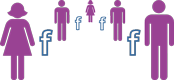
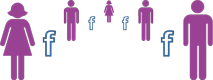
styling guest page

Changed region(s): [[0.0, 0.0, 1.0, 1.0], [0.8621, 0.0, 0.977, 0.175], [0.9483, 0.175, 1.0, 0.225]]

diff --git a/crush/static/fbdater_guest_v1.css b/crush/static/fbdater_guest_v1.css
@@ -560,14 +560,14 @@ div#who_it_works_on_section .icon{
 	margin-left:392px;
 }
 div#who_it_works_on_section .icon1{
-	margin-left:403px;
+	margin-left:402px;
 }
 div#who_it_works_on_section .icon2{
-	margin-left:390px;
+	margin-left:383px;
 }
 
 div#who_it_works_on_section .icon3{
-	margin-left:367px;
+	margin-left:353px;
 }
 
 div#who_it_works_on_section .info_section_subtitle {
@@ -578,18 +578,17 @@ div#who_it_works_on_section .info_section_subtitle {
 	border-radius:15px 15px 2px 2px;
 	padding:1px 25px 0px 15px;
 	text-align:center;
-	width:504px!important;
-	margin-left:225px!important;
+	width:495px!important;
+	margin-left:220px!important;
 	margin-top:15px;
 }
 
 div#who_it_works_on_section .info_section_title {
 	color:#3b5998;
 	font-size:39px;
-		margin-top:-15px;
-		margin-bottom:45px;
-		
-	margin-left:-74px;
+	margin-top:-15px;
+	margin-bottom:45px;	
+	margin-left:-70px;
 	text-align:center;
 	font-size:39px;
 	margin-top:-15px;
@@ -600,8 +599,8 @@ div#who_it_works_on_section .info_section_text{
 	margin-bottom:55px;
 	margin-top:-6px;
 	-webkit-font-smoothing: antialiased;
-	width:504px;
-	margin-left:225px;
+	width:495px;
+	margin-left:220px;
 	line-height:32px;
 	height:130px;
 	padding:20px 16px;
@@ -634,6 +633,7 @@ div#who_will_know_section .info_section_title {
 	color:#ff0000;
 	#color:#09abe8;
 	color:#9A3F98;
+	color:#6F40A0;
 	margin-left:-74px;
 	text-align:center;
 	font-size:39px;
@@ -644,6 +644,7 @@ div#who_will_know_section .info_section_subtitle {
 	color:#ff0000;
 	#color:#09abe8;
 	color:#9A3F98;
+	color:#6F40A0;
 	margin-right:8px;
 	font-size:20px;
 }
@@ -888,39 +889,38 @@ color:#000;
 }
 .footer_section .center_container {
 	padding-top:50px;
-	font-size:16px;
-	padding-bottom:55px;
+	font-size:14px;
+	padding-bottom:85px;
 	#font-family:"helvetica neue",arial;
-	letter-spacing:1px;
+	letter-spacing:0px;
 	text-align:center;
 	color:#fff;
 }
 .footer_section .center_container .first_footer_line{
 	display:inline-block;
 	margin-left:-40px;
+	opacity:.6;
 }
 
-.hidden_text{
 
-	color:#141432;
+#bottom_links{
+	margin-top:15px;
+	display:block;
+	margin-left:-90px;
 }
 
 #bottom_links a{
-	font-size:14px;
+	font-size:13px;
 	display:inline-block;
-	margin-left:20px;
+	margin-left:40px;
 	font-weight:normal;
 	color:#fff;
+	opacity:.8;
 }
 
-a#bottom_link_contact:hover {
-	color:#ED1939;
-}
-a#bottom_link_terms:hover {
-	color:#9A3F98;
-}
-a#bottom_link_privacy:hover {
-	color:#09ABE8;
+#bottom_links a:hover {
+	opacity:1;
+	text-decoration:underline;
 }
 
 /*  ----------- GUEST PAGES ------------ */

diff --git a/templates/guest_home.html b/templates/guest_home.html
@@ -292,7 +292,7 @@ jQuery(document).ready(function($) {
 
 <div class="footer_section">
 	<div class="center_container">
-		<span class="first_footer_line">CrushMaven © 2014</span>&nbsp;&nbsp;&nbsp;&nbsp;<span id="bottom_links"><a id="bottom_link_contact" href="/contact/">Contact Us</a><a href="/terms" id="bottom_link_terms">Terms</a> <a href="/privacy" id="bottom_link_privacy">Privacy</a></span>
+		<span class="first_footer_line">CrushMaven © 2014</span>&nbsp;&nbsp;&nbsp;&nbsp;<span id="bottom_links"><a id="bottom_link_contact" href="/contact/">Help</a><a id="bottom_link_contact" href="/contact/">Press</a><a id="bottom_link_contact" href="/contact/">Suggestions</a><a href="/terms" id="bottom_link_terms">Terms</a> <a href="/privacy" id="bottom_link_privacy">Privacy</a></span>
 	</div>
 </div>
 <div id="lineup_modal" title="Admirer Lineup"></div>
